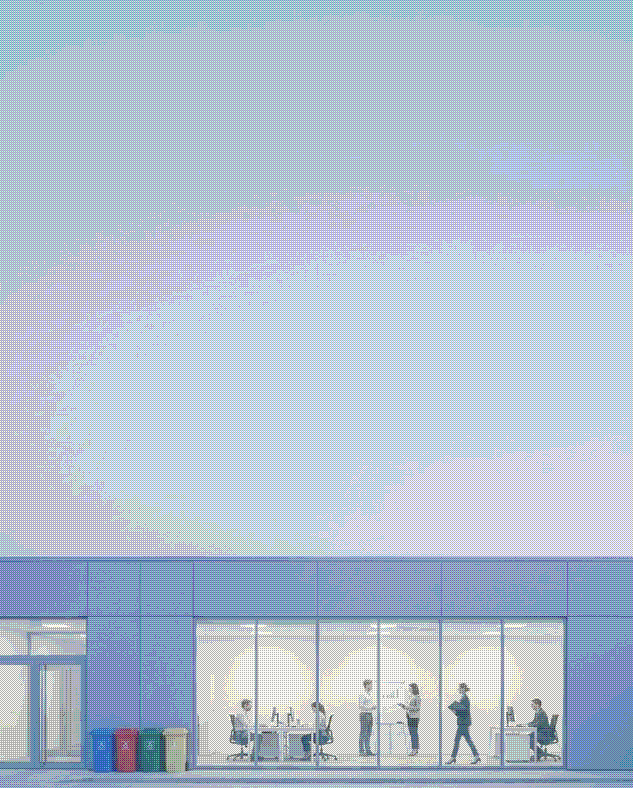
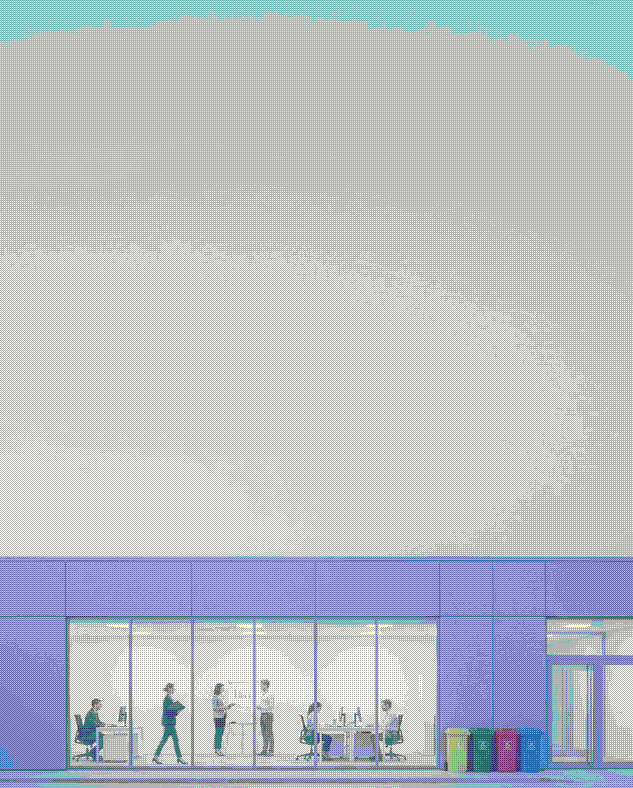
home: foto da ISO espelhada, a coleta seletiva fica a direita, fora do botao

diff --git a/index.html b/index.html
@@ -2582,7 +2582,7 @@ body>*{position:relative;z-index:1}
         </div>
       </article>
       <article class="sh-col sh-col--iso">
-        <img class="sh-foto" src="img/flow-iso-cor-bayer-fl.webp?v=30092026e" data-lum="img/flow-iso-cor-fl.webp?v=30092026e" alt="" loading="eager" decoding="sync" fetchpriority="high">
+        <img class="sh-foto" src="img/flow-iso-cor-bayer-fl.webp?v=30092026f" data-lum="img/flow-iso-cor-fl.webp?v=30092026f" alt="" loading="eager" decoding="sync" fetchpriority="high">
         <div class="sh-conteudo">
           <div>
             <span class="sh-indice">[ 02 ]</span>
